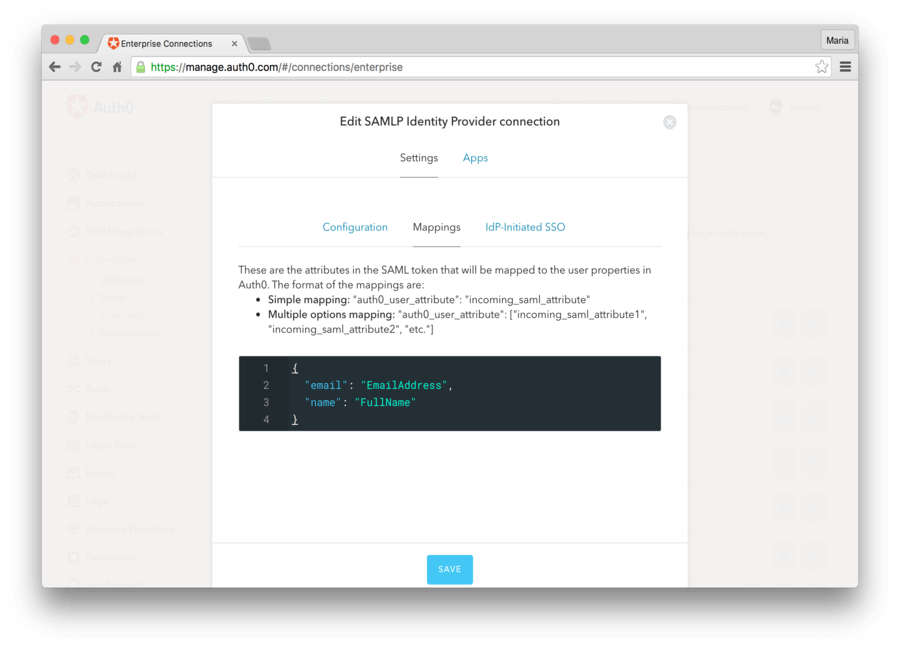
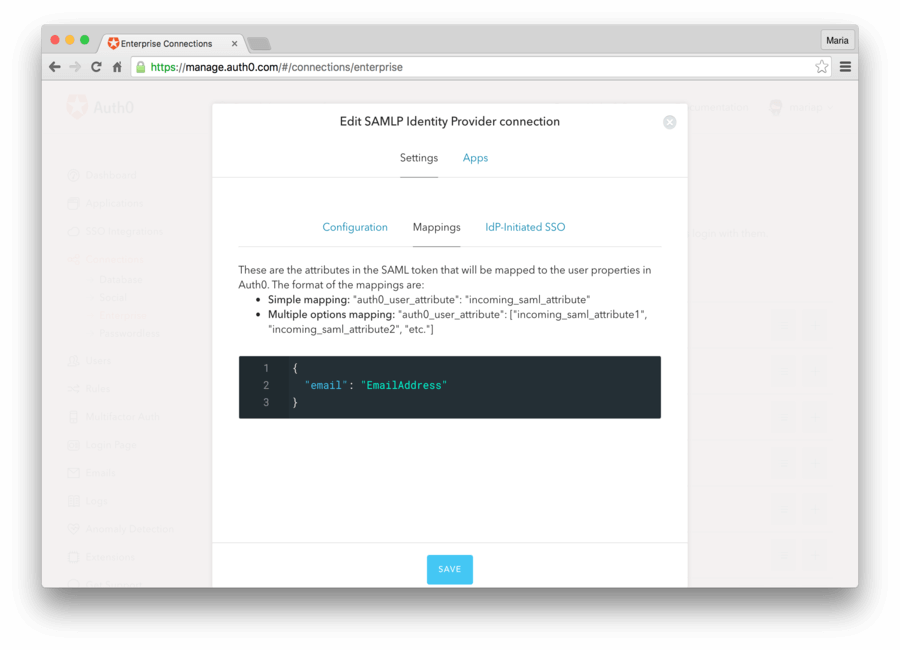
Remove FullName from mappings

Changed region(s): [[0.2489, 0.6154, 0.7467, 0.6769]]

diff --git a/articles/saml/identity-providers/onelogin.md b/articles/saml/identity-providers/onelogin.md
@@ -80,14 +80,13 @@ If you use OneLogin and Auth0 out-of-the-box, users logging in using OneLogin an
 
 ![](/media/articles/saml/identity-providers/onelogin/user-without-mappings.png)
 
-You have to edit the mappings in the Auth0 connection, along with the parameters in the OneLogin dashboard in order to map the information. Let's see how we could add the `EmailAddress` and `FullName` information to our login. 
+You have to edit the mappings in the Auth0 connection, along with the parameters in the OneLogin dashboard in order to map the information. Let's see how we could add the `EmailAddress` information to our login. 
 
 Go to the _Settings_ of your [SAMLP Identity Provider](${uiURL}/#/connections/enterprise) and navigate to the tab __Mappings__. Copy the mappings below and paste it in the text box.
 
 ```javascript
 {
-"email": "EmailAddress",
-"name": "FullName"
+  "email": "EmailAddress"
 }
 ```
 
